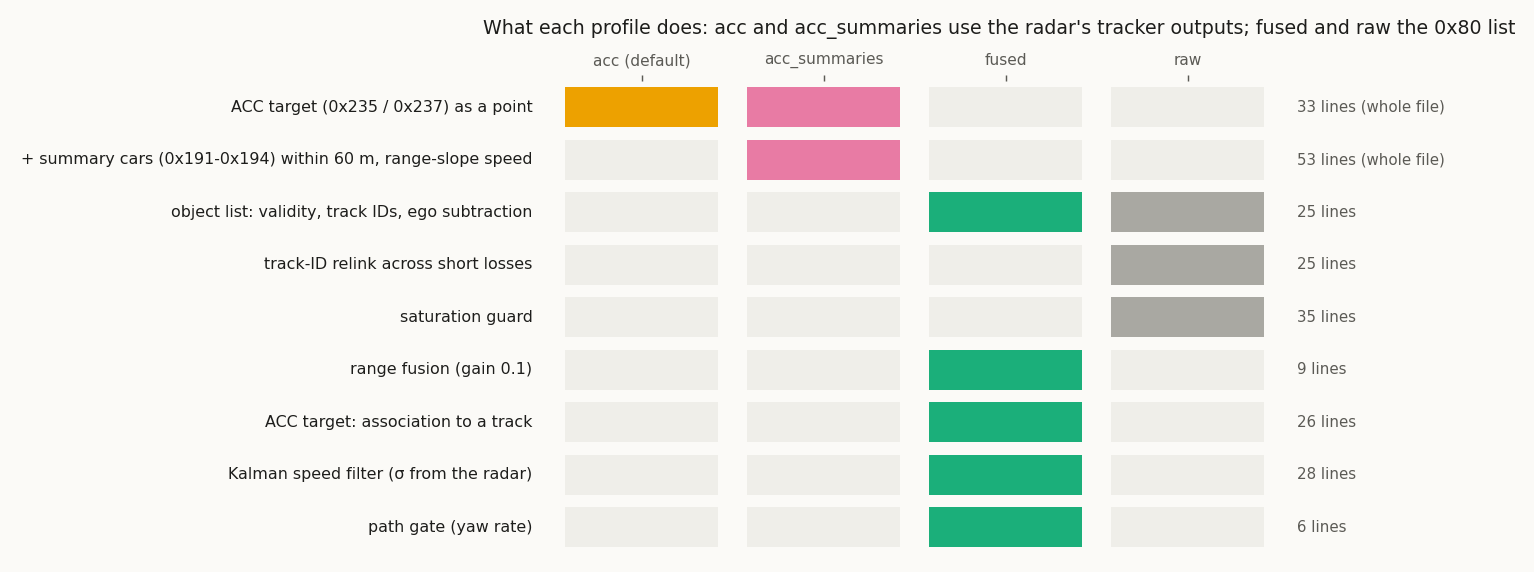
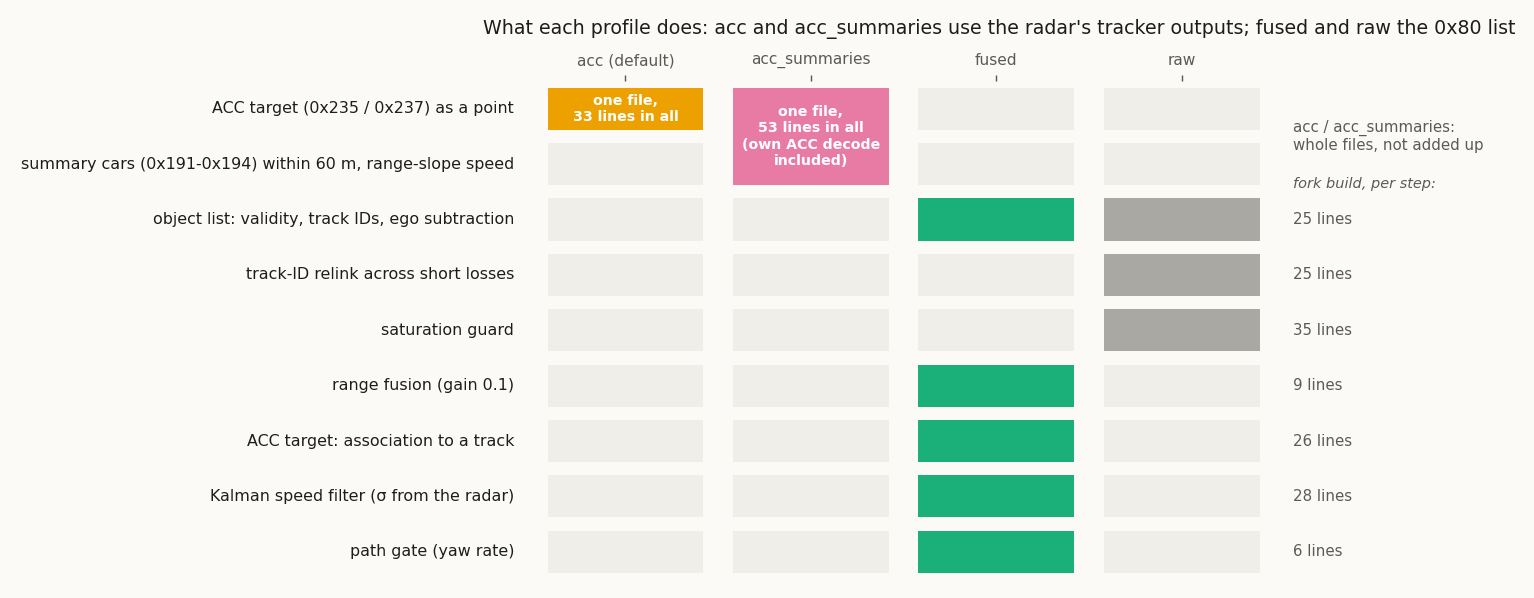
fix(figure): profile_layers shows acc and acc_summaries as whole files (53 lines in all, not 33 + 53)

diff --git a/tools/make_fused_figures.py b/tools/make_fused_figures.py
@@ -127,24 +127,37 @@ def layers() -> None:
     n = lambda *fs: sum(code(f) for f in fs)
     from ars510.tracks import NativeTrackIdAssigner
     # columns: acc, acc_summaries, fused, raw (the recommended order)
-    rows = [("ACC target (0x235 / 0x237) as a point", acc_lines(), (1, 1, 0, 0), " (whole file)"),
-            ("+ summary cars (0x191-0x194) within 60 m, range-slope speed",
-             acc_lines("openpilot/standalone/ars510_acc_summaries.py"), (0, 1, 0, 0), " (whole file)"),
-            ("object list: validity, track IDs, ego subtraction", n(NativeTrackIdAssigner.update, I._fresh_ego_speed), (0, 0, 1, 1), ""),
-            ("track-ID relink across short losses", n(I._relink), (0, 0, 0, 1), ""),
-            ("saturation guard", n(I._guard), (0, 0, 0, 1), ""),
-            ("range fusion (gain 0.1)", n(I._fused_range), (0, 0, 1, 0), ""),
-            ("ACC target: association to a track", n(I._acc_target_match), (0, 0, 1, 0), ""),
-            ("Kalman speed filter (σ from the radar)", n(I._fused_speed), (0, 0, 1, 0), ""),
-            ("path gate (yaw rate)", path_gate_lines(), (0, 0, 1, 0), "")]
+    acc_n, accs_n = acc_lines(), acc_lines("openpilot/standalone/ars510_acc_summaries.py")
+    rows = [("ACC target (0x235 / 0x237) as a point", None, (1, 1, 0, 0)),
+            ("summary cars (0x191-0x194) within 60 m, range-slope speed", None, (0, 1, 0, 0)),
+            ("object list: validity, track IDs, ego subtraction", n(NativeTrackIdAssigner.update, I._fresh_ego_speed), (0, 0, 1, 1)),
+            ("track-ID relink across short losses", n(I._relink), (0, 0, 0, 1)),
+            ("saturation guard", n(I._guard), (0, 0, 0, 1)),
+            ("range fusion (gain 0.1)", n(I._fused_range), (0, 0, 1, 0)),
+            ("ACC target: association to a track", n(I._acc_target_match), (0, 0, 1, 0)),
+            ("Kalman speed filter (σ from the radar)", n(I._fused_speed), (0, 0, 1, 0)),
+            ("path gate (yaw rate)", path_gate_lines(), (0, 0, 1, 0))]
     prof = ["acc (default)", "acc_summaries", "fused", "raw"]; colors = [ACCP, ACCS, FUS, GRAY]
-    fig, ax = plt.subplots(figsize=(11.8, 4.4))
-    for i, (name, lines, on, note) in enumerate(rows):
-        y = len(rows) - 1 - i
+    fig, ax = plt.subplots(figsize=(11.8, 4.6))
+    top = len(rows) - 1
+    for i, (name, lines, on) in enumerate(rows):
+        y = top - i
         for j, flag in enumerate(on):
+            if j in (0, 1) and i < 2:
+                continue  # the two ACC-based profiles are drawn as whole files below
             ax.add_patch(plt.Rectangle((j + 0.08, y + 0.12), 0.84, 0.76, color=colors[j] if flag else "#efeee9", lw=0))
         ax.text(-0.1, y + 0.5, name, ha="right", va="center", fontsize=8.8)
-        ax.text(4.1, y + 0.5, f"{lines} lines{note}", ha="left", va="center", fontsize=8.3, color=INK2)
+        if lines is not None:
+            ax.text(4.1, y + 0.5, f"{lines} lines", ha="left", va="center", fontsize=8.3, color=INK2)
+    # acc: one file covering row 0; acc_summaries: one file covering rows 0-1 (its ACC part is inside its own 53 lines)
+    ax.add_patch(plt.Rectangle((0.08, top + 0.12), 0.84, 0.76, color=ACCP, lw=0))
+    ax.text(0.5, top + 0.5, f"one file,\n{acc_n} lines in all", ha="center", va="center", fontsize=7.8, color="white", fontweight="bold")
+    ax.add_patch(plt.Rectangle((0.08, top - 1 + 0.12), 0.84, 0.76, color="#efeee9", lw=0))
+    ax.add_patch(plt.Rectangle((1.08, top - 1 + 0.12), 0.84, 1.76, color=ACCS, lw=0))
+    ax.text(1.5, top + 0.5 - 0.5, f"one file,\n{accs_n} lines in all\n(own ACC decode\nincluded)", ha="center", va="center",
+            fontsize=7.8, color="white", fontweight="bold")
+    ax.text(4.1, top + 0.5 - 0.5, "acc / acc_summaries:\nwhole files, not added up", ha="left", va="center", fontsize=8.3, color=INK2)
+    ax.text(4.1, top - 2 + 1.02, "fork build, per step:", ha="left", va="bottom", fontsize=8.0, color=INK2, style="italic")
     ax.set_xlim(-0.05, 5.3); ax.set_ylim(0, len(rows)); ax.set_xticks([0.5, 1.5, 2.5, 3.5], prof); ax.xaxis.tick_top()
     ax.set_yticks([]); ax.grid(False)
     for sp in ax.spines.values(): sp.set_visible(False)

diff --git a/docs/11_profiles_compared.md b/docs/11_profiles_compared.md
@@ -232,7 +232,8 @@ radard matches to the camera's lead through its distance and speed gates.
 ![which processing each profile applies](img/analysis/profile_layers.png)
 
 *Each row is one processing step; coloured cells are the steps a profile runs. Line counts are code lines of the
-fork build (`ars510/`). `acc` and `acc_summaries` are whole files (ACC target; ACC target plus summary cars);
+fork build (`ars510/`). `acc` and `acc_summaries` are each one whole file: `acc_summaries`' 53 lines include its own ACC target decode, so they
+are not added to `acc`'s 33;
 the object-list steps belong to `raw` and `fused`.*
 
 - **`acc`** publishes the radar's ACC target: the one car the radar's own ACC function follows, already chosen,
